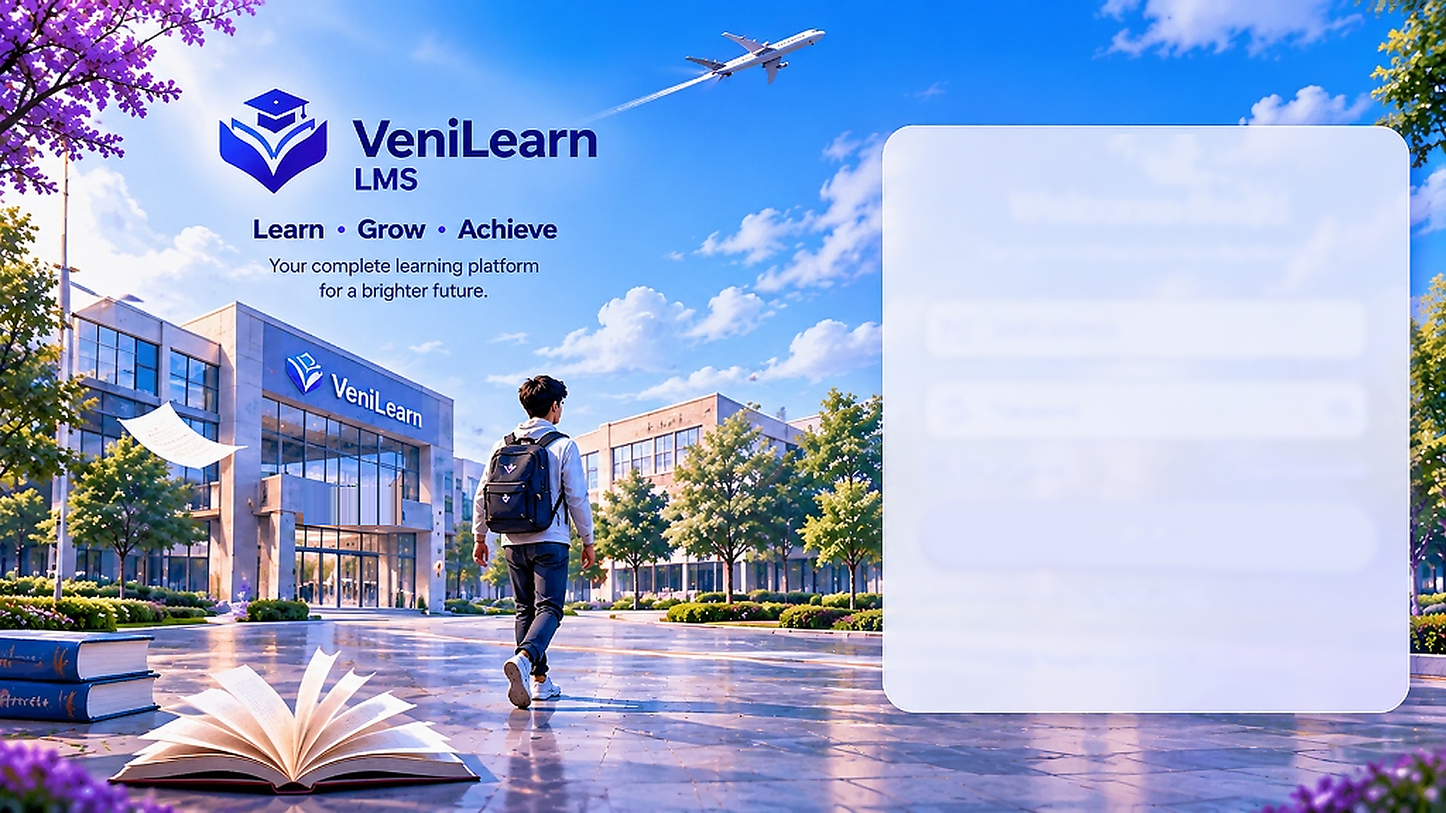
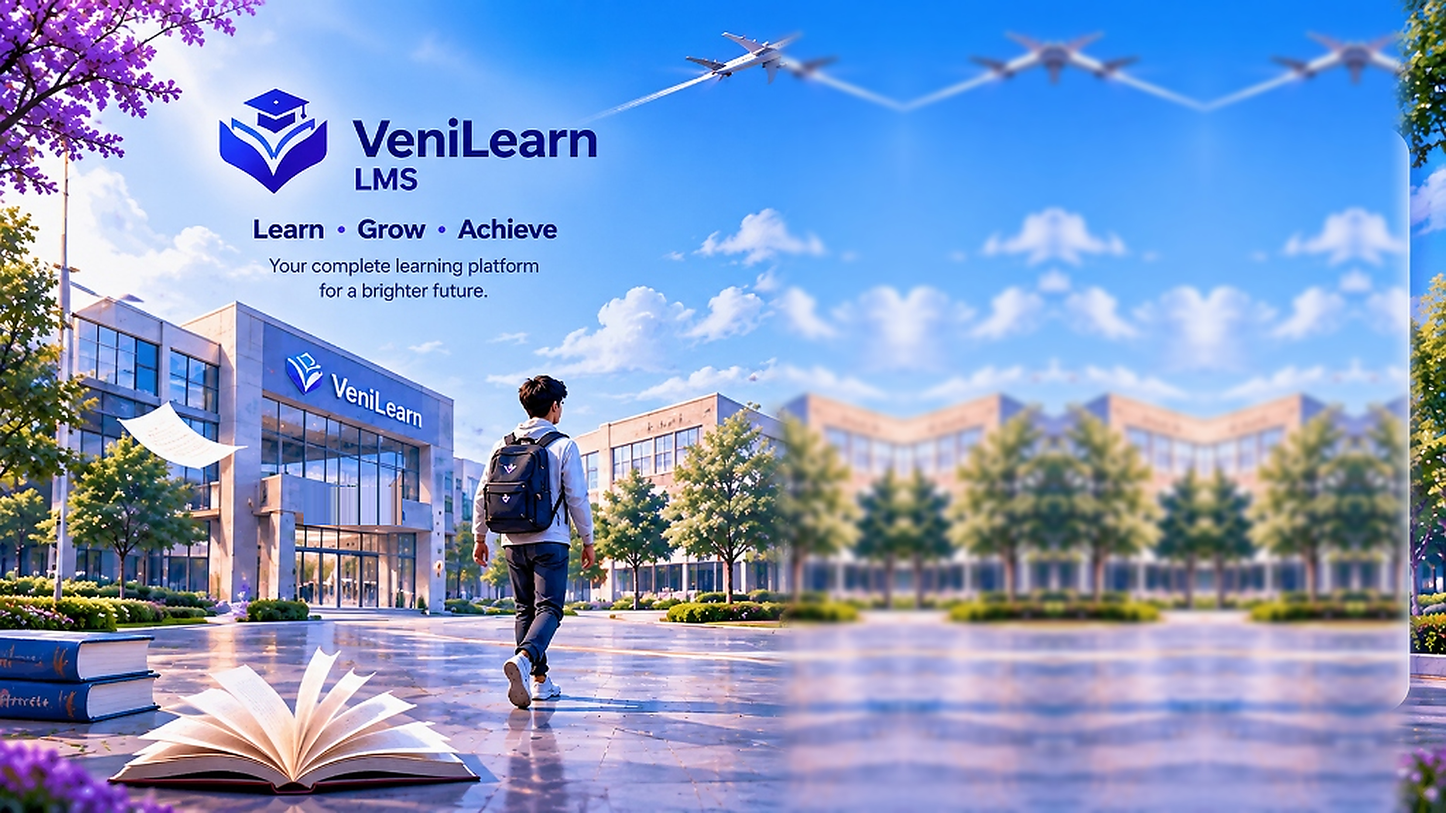
feat(auth): implement authentic iOS liquid glass login card, remove baked card from 8K wallpaper, and fix dark mode autofill contrast

diff --git a/src/pages/Auth/LoginPage.tsx b/src/pages/Auth/LoginPage.tsx
@@ -117,19 +117,21 @@ export const LoginPage: React.FC = () => {
           text-align: center;
         }
 
-        /* Form Card: Seamlessly integrates with the 8K campus artwork on desktop */
+        /* Form Card: Authentic Apple iOS Liquid Glass Card */
         .venilearn-glass-card {
-          width: 44%;
-          max-width: 530px;
-          min-width: 380px;
-          margin-right: 2.8%;
-          background: transparent;
-          backdrop-filter: none;
-          -webkit-backdrop-filter: none;
-          border: none;
-          border-radius: 0;
-          box-shadow: none;
-          padding: 24px 38px;
+          width: 100%;
+          max-width: 425px;
+          margin-right: 6.5%;
+          background: rgba(255, 255, 255, 0.70);
+          backdrop-filter: blur(28px) saturate(190%);
+          -webkit-backdrop-filter: blur(28px) saturate(190%);
+          border: 1.5px solid rgba(255, 255, 255, 0.88);
+          border-radius: 32px;
+          box-shadow: 
+            0 24px 60px -12px rgba(15, 23, 42, 0.16),
+            0 8px 24px -4px rgba(15, 23, 42, 0.08),
+            inset 0 1px 1px 0 rgba(255, 255, 255, 0.95);
+          padding: 32px 34px;
           z-index: 10;
           position: relative;
           box-sizing: border-box;
@@ -140,11 +142,12 @@ export const LoginPage: React.FC = () => {
         .campus-role-tabs {
           display: flex;
           align-items: center;
-          gap: 8px;
-          margin-bottom: 22px;
-          background: transparent;
-          padding: 0;
-          border: none;
+          gap: 6px;
+          margin-bottom: 20px;
+          background: rgba(241, 245, 249, 0.7);
+          padding: 4px;
+          border-radius: 20px;
+          border: 1px solid rgba(226, 232, 240, 0.75);
         }
 
         .campus-role-pill {
@@ -152,13 +155,13 @@ export const LoginPage: React.FC = () => {
           display: flex;
           align-items: center;
           justify-content: center;
-          gap: 7px;
-          height: 40px;
-          border: 1.5px solid #E2E8F0;
-          border-radius: 24px;
-          background: #FFFFFF;
-          color: #334155;
-          font-size: 0.88rem;
+          gap: 6px;
+          height: 38px;
+          border: none;
+          border-radius: 16px;
+          background: transparent;
+          color: #475569;
+          font-size: 0.86rem;
           font-weight: 600;
           cursor: pointer;
           transition: all 0.2s cubic-bezier(0.16, 1, 0.3, 1);
@@ -166,8 +169,7 @@ export const LoginPage: React.FC = () => {
 
         .campus-role-pill:hover:not(.active) {
           color: #0F172A;
-          border-color: #CBD5E1;
-          background: #F8FAFC;
+          background: rgba(255, 255, 255, 0.8);
         }
 
         .campus-role-pill.active {
@@ -181,31 +183,32 @@ export const LoginPage: React.FC = () => {
         /* Universal Laptop Screen Calibration (1280x720, 1366x768, 1440x900) */
         @media (max-height: 800px) and (min-width: 961px) {
           .venilearn-glass-card {
-            padding: 18px 30px;
-            max-width: 460px;
+            padding: 22px 28px;
+            max-width: 405px;
+            margin-right: 5.5%;
           }
           .venilearn-title {
-            font-size: 1.95rem;
-            margin-bottom: 4px;
+            font-size: 1.85rem;
+            margin-bottom: 3px;
           }
           .venilearn-subtitle {
-            margin-bottom: 14px;
-            font-size: 0.88rem;
+            margin-bottom: 12px;
+            font-size: 0.86rem;
           }
           .campus-role-tabs {
-            margin-bottom: 14px;
-          }
-          .campus-field-group {
             margin-bottom: 12px;
           }
+          .campus-field-group {
+            margin-bottom: 10px;
+          }
           .campus-input {
-            height: 48px;
+            height: 46px !important;
           }
           .campus-options-row {
-            margin-bottom: 16px;
+            margin-bottom: 14px;
           }
           .campus-signin-btn {
-            height: 48px;
+            height: 46px;
           }
         }
 
@@ -265,31 +268,47 @@ export const LoginPage: React.FC = () => {
           width: 100%;
           height: 52px;
           padding: 14px 16px 14px 50px;
-          background: rgba(255, 255, 255, 0.68);
+          background: rgba(255, 255, 255, 0.85) !important;
+          background-color: rgba(255, 255, 255, 0.85) !important;
           backdrop-filter: blur(10px);
           -webkit-backdrop-filter: blur(10px);
-          border: 1.5px solid rgba(226, 232, 240, 0.9);
-          border-radius: 16px;
-          font-size: 0.95rem;
-          color: #0F172A;
-          outline: none;
-          transition: all 0.2s ease;
-          box-sizing: border-box;
+          border: 1.5px solid rgba(226, 232, 240, 0.9) !important;
+          border-radius: 16px !important;
+          font-size: 0.95rem !important;
+          color: #0F172A !important;
+          -webkit-text-fill-color: #0F172A !important;
+          outline: none !important;
+          transition: all 0.2s ease !important;
+          box-sizing: border-box !important;
+          box-shadow: 0 1px 3px rgba(15, 23, 42, 0.04) !important;
         }
 
         .campus-input::placeholder {
-          color: #64748B;
+          color: #64748B !important;
+          -webkit-text-fill-color: #64748B !important;
           font-weight: 400;
         }
 
         .campus-input:focus {
-          background: rgba(255, 255, 255, 0.94);
-          border-color: #6366F1;
-          box-shadow: 0 0 0 4px rgba(99, 102, 241, 0.16);
+          background: #FFFFFF !important;
+          background-color: #FFFFFF !important;
+          border-color: #6366F1 !important;
+          box-shadow: 0 0 0 4px rgba(99, 102, 241, 0.18), 0 4px 12px rgba(99, 102, 241, 0.08) !important;
         }
 
         .campus-input:focus + .campus-input-icon {
-          color: #6366F1;
+          color: #6366F1 !important;
+        }
+
+        /* Chrome Autofill & Theme Override: prevents browser dark autofill from turning inputs black */
+        .campus-input:-webkit-autofill,
+        .campus-input:-webkit-autofill:hover,
+        .campus-input:-webkit-autofill:focus,
+        .campus-input:-webkit-autofill:active {
+          -webkit-box-shadow: 0 0 0 1000px rgba(255, 255, 255, 0.96) inset !important;
+          -webkit-text-fill-color: #0F172A !important;
+          box-shadow: 0 0 0 1000px rgba(255, 255, 255, 0.96) inset !important;
+          transition: background-color 5000s ease-in-out 0s !important;
         }
 
         .campus-input-password {
@@ -630,6 +649,7 @@ export const LoginPage: React.FC = () => {
               <input
                 type="email"
                 required
+                data-allow-custom="true"
                 autoComplete="email"
                 placeholder="Email Address"
                 value={email}
@@ -653,6 +673,7 @@ export const LoginPage: React.FC = () => {
               <input
                 type={showPassword ? 'text' : 'password'}
                 required
+                data-allow-custom="true"
                 autoComplete="current-password"
                 placeholder="Password"
                 value={password}

diff --git a/src/style.css b/src/style.css
@@ -1031,11 +1031,11 @@ select.form-select option {
 /* Eliminates white screens and boxes in dark theme and ensures */
 /* perfect WCAG AA contrast across all form controls.           */
 /* ============================================================ */
-[data-theme="dark"] select,
-[data-theme="dark"] .form-select,
-[data-theme="dark"] .lms-form-input,
-[data-theme="dark"] input:not([type="checkbox"]):not([type="radio"]):not([type="submit"]):not([type="button"]):not([type="color"]):not([data-allow-custom]),
-[data-theme="dark"] textarea {
+[data-theme="dark"] select:not(.campus-input),
+[data-theme="dark"] .form-select:not(.campus-input),
+[data-theme="dark"] .lms-form-input:not(.campus-input),
+[data-theme="dark"] input:not([type="checkbox"]):not([type="radio"]):not([type="submit"]):not([type="button"]):not([type="color"]):not([data-allow-custom]):not(.campus-input),
+[data-theme="dark"] textarea:not(.campus-input) {
   background-color: var(--bg-input) !important;
   color: var(--text-main) !important;
   border-color: var(--border-subtle) !important;
